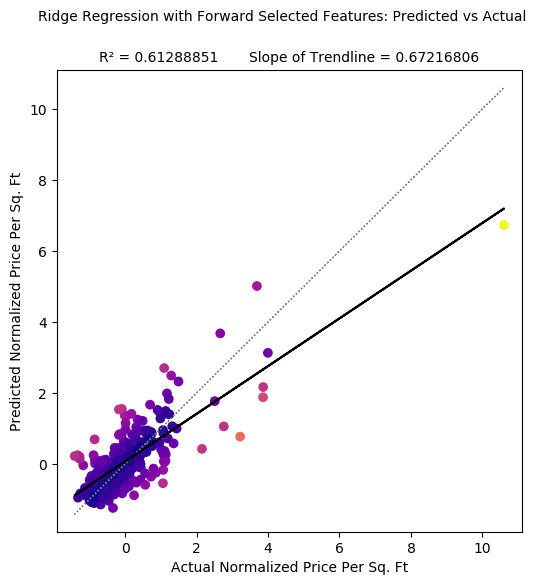
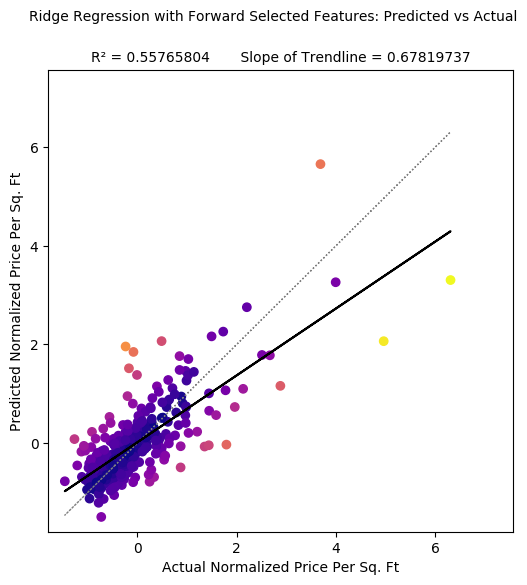
small changes; adjust plotting axis

diff --git a/plotting.py b/plotting.py
@@ -31,8 +31,8 @@ def plot_predictions(plot_data: dict,
     plt.plot(y_test, y_test, color='gray', linestyle='dotted', linewidth=1)
     plt.plot(y_test, (m*y_test + b), color='black')
 
-    axis_max = max([max(y_test), max(y_preds)]) + 0.5
-    axis_min = min([min(y_test), min(y_preds)]) - 0.5
+    axis_max = max([max(y_test), max(y_preds)]) * 1.2
+    axis_min = min([min(y_test), min(y_preds), 0]) * 1.2
     plt.axis([axis_min, axis_max, axis_min, axis_max])
 
     plt.suptitle(title, size=10)

diff --git a/glm.py b/glm.py
@@ -85,5 +85,5 @@ plot_data = {
     'test': y_test,
     'pred': pred
 }
-plot_predictions(plot_data, title='Linear Regression: Predicted vs Actual', filename='glm')
+plot_predictions(plot_data, title='Gamma Regression: Predicted vs Actual', filename='glm')
 plt.show()
